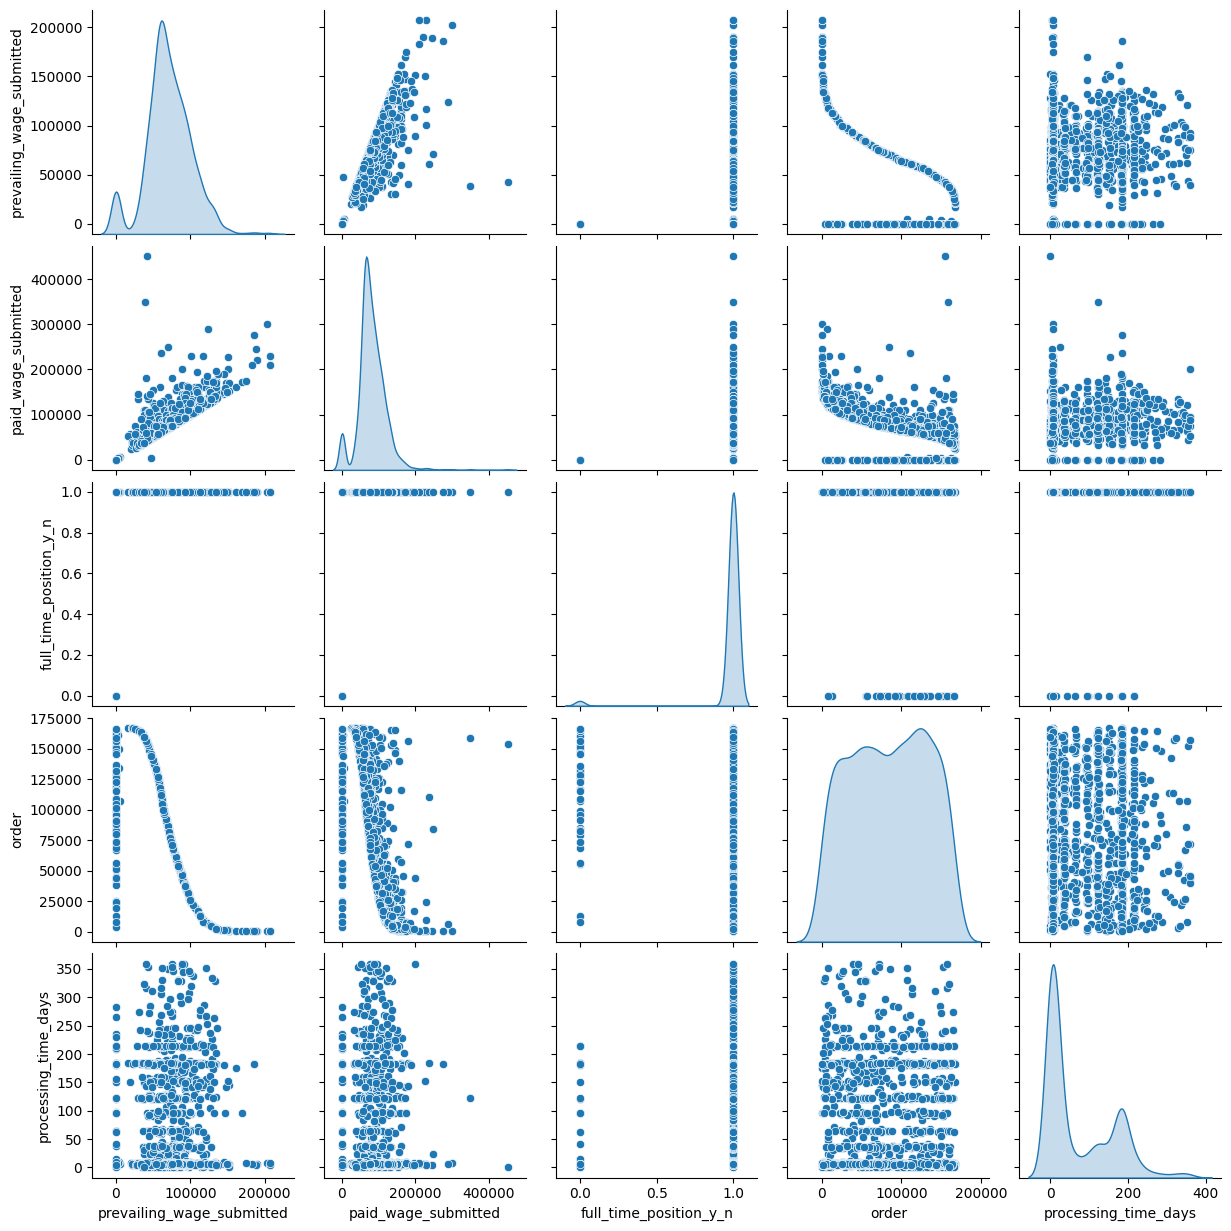
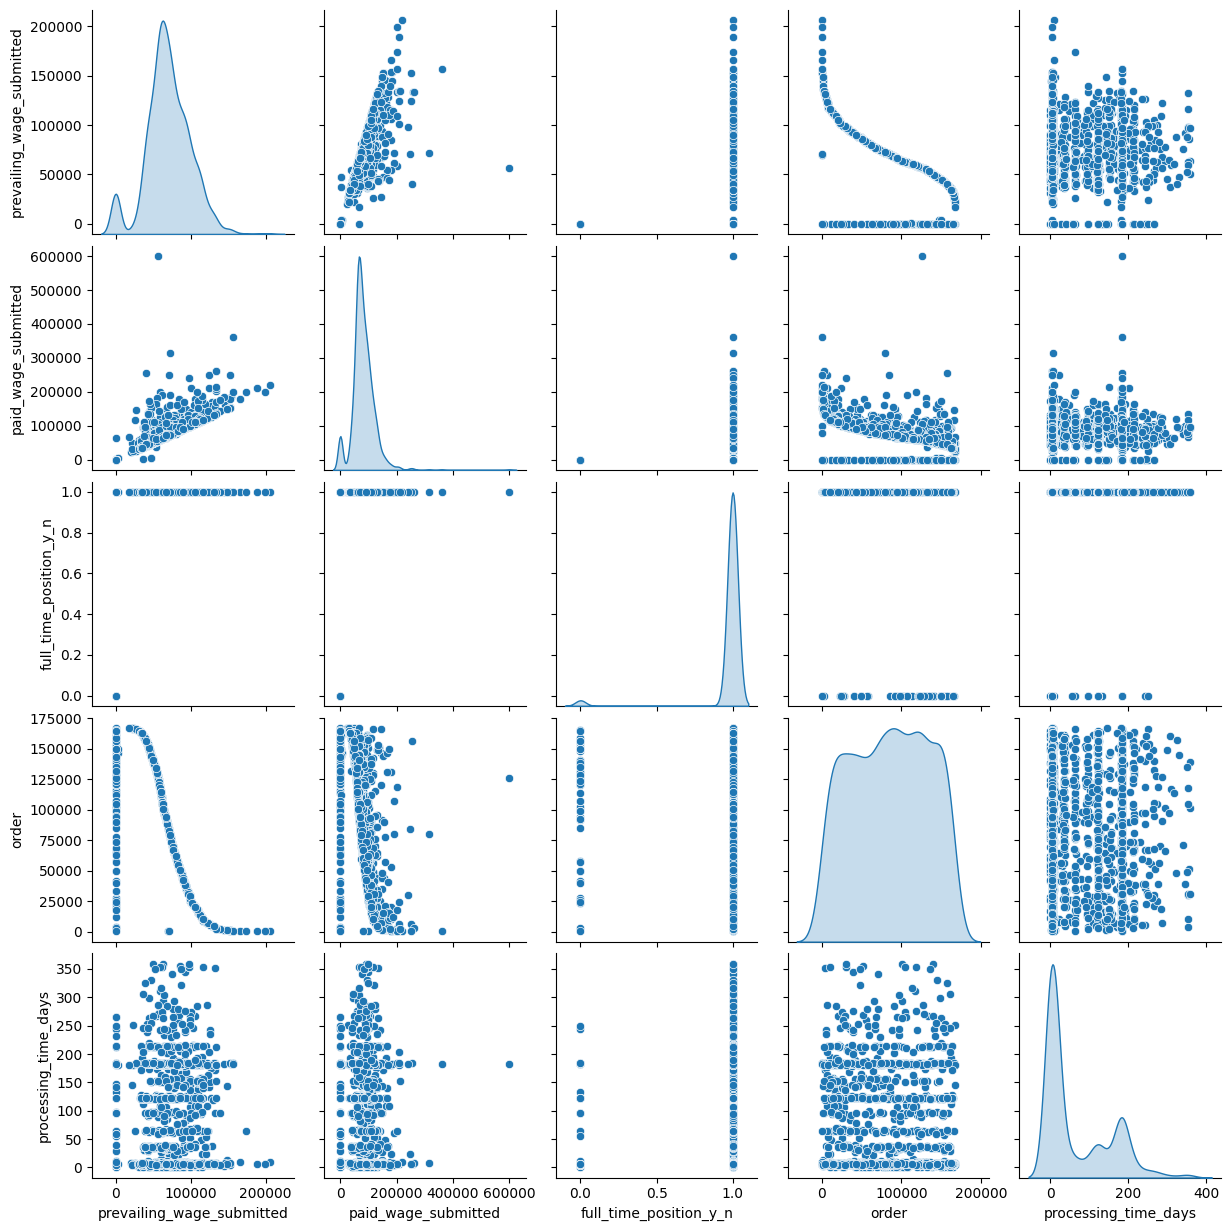
Added IQR-based outlier capping to processing_time_days

diff --git a/src/eda.py b/src/eda.py
@@ -70,6 +70,18 @@ def main():
         ).dt.days
 
         df = df[df["processing_time_days"] >= 0]
+        
+        Q1 = df["processing_time_days"].quantile(0.25)
+        Q3 = df["processing_time_days"].quantile(0.75)
+        IQR = Q3 - Q1
+
+        lower_bound = Q1 - 1.5 * IQR
+        upper_bound = Q3 + 1.5 * IQR
+
+        print("Lower Bound:", lower_bound)
+        print("Upper Bound:", upper_bound)
+        
+        df["processing_time_days"] = df["processing_time_days"].clip(lower_bound, upper_bound)
 
         categorical_cols = ["visa_class", "visa_status", "work_state"]
 
